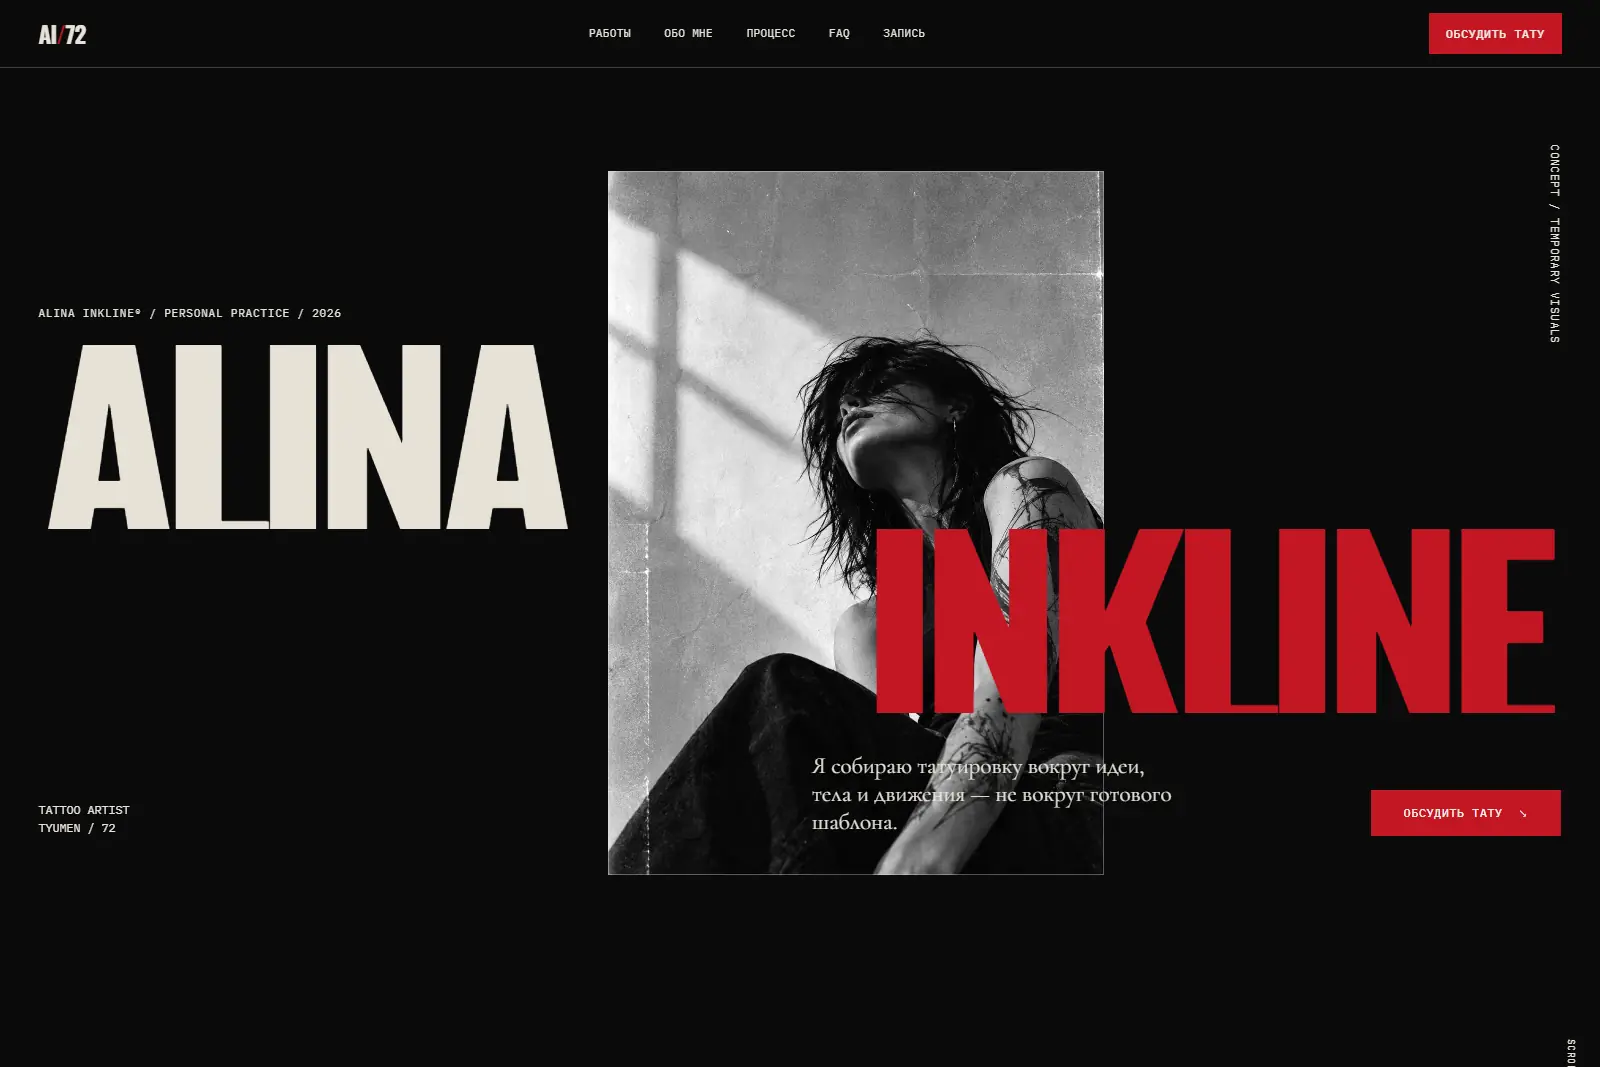
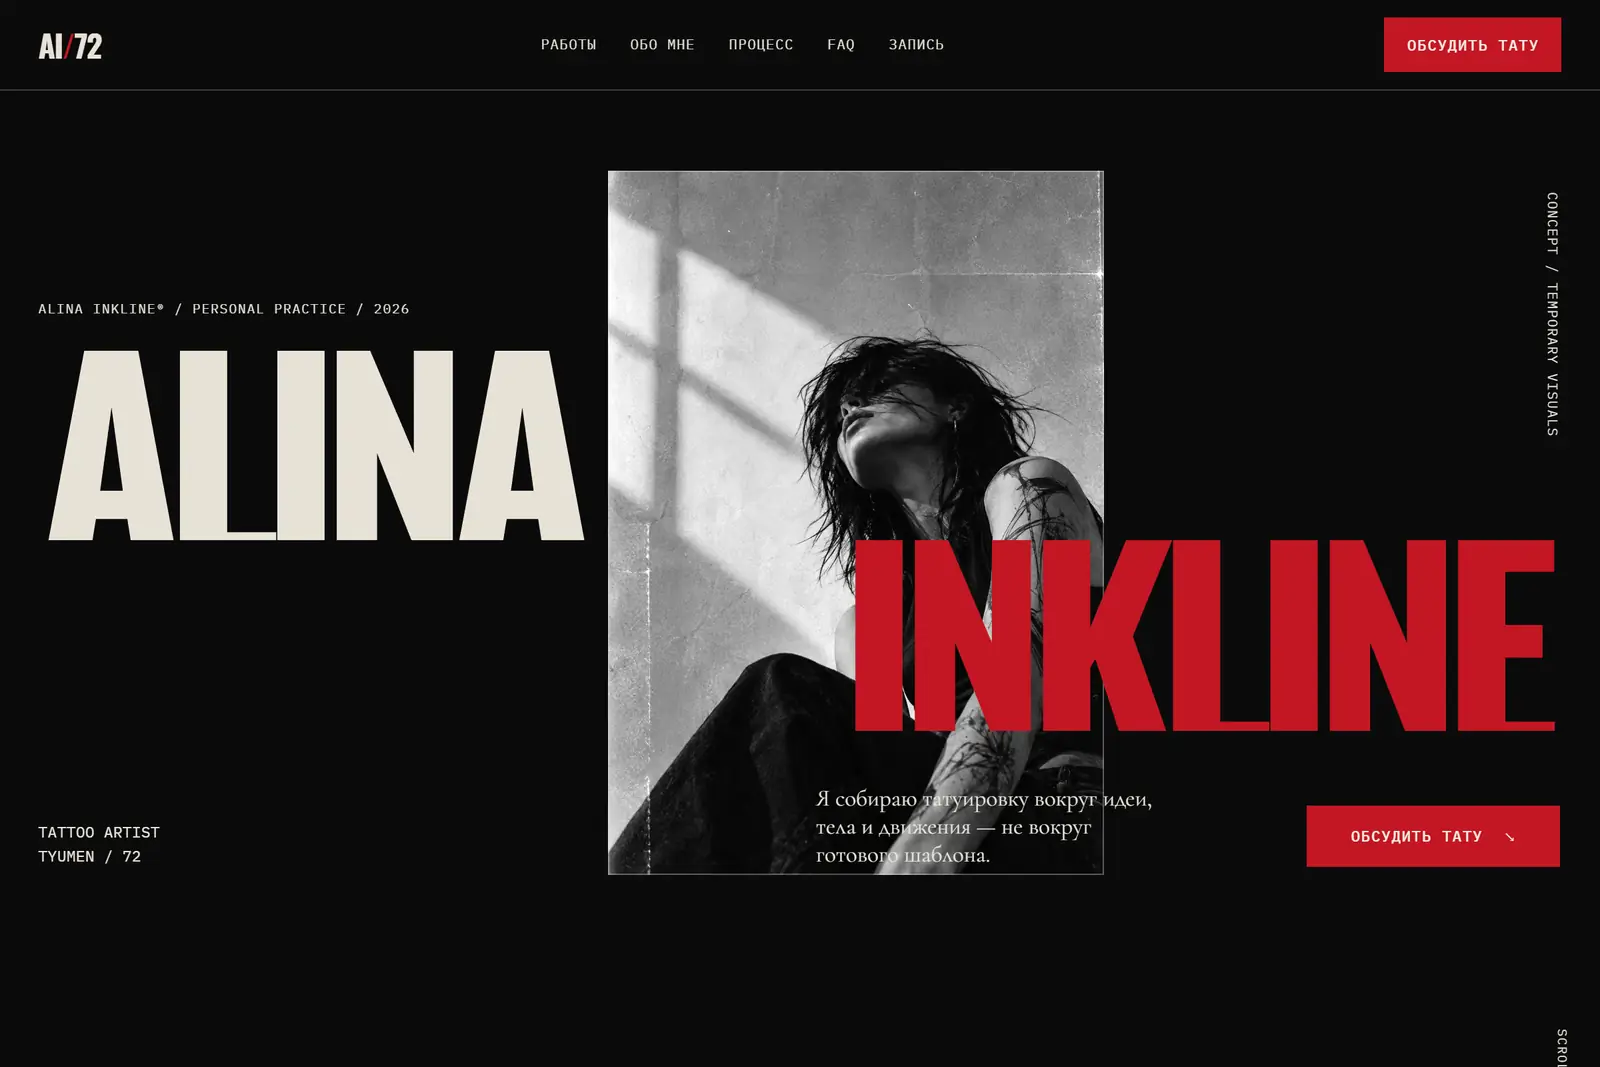
Refresh and reframe all portfolio case previews

diff --git a/index.html b/index.html
@@ -25,8 +25,8 @@
 
 <link rel="preload" as="font" type="font/woff2" href="assets/fonts/oranienbaum-400-cyrillic.woff2" crossorigin>
 <link rel="preload" as="font" type="font/woff2" href="assets/fonts/spectral-400-cyrillic.woff2" crossorigin>
-<link rel="preload" as="image" href="assets/img/case-perfecto-1200.webp" fetchpriority="high"
-      imagesrcset="assets/img/case-perfecto-600.webp 600w, assets/img/case-perfecto-900.webp 900w, assets/img/case-perfecto-1200.webp 1200w, assets/img/case-perfecto-1600.webp 1600w"
+<link rel="preload" as="image" href="assets/img/case-perfecto-1200.webp?v=3" fetchpriority="high"
+      imagesrcset="assets/img/case-perfecto-600.webp?v=3 600w, assets/img/case-perfecto-900.webp?v=3 900w, assets/img/case-perfecto-1200.webp?v=3 1200w, assets/img/case-perfecto-1600.webp?v=3 1600w"
       imagesizes="(max-width:660px) calc(100vw - 44px), (max-width:1100px) 88vw, (max-width:1324px) 45vw, 575px">
 <script>
 /* Стартовые состояния ограничены таймером, который не ждёт загрузки ресурсов.
@@ -39,7 +39,7 @@
  },1200);
 })(document);
 </script>
-<link rel="stylesheet" href="assets/css/style.css">
+<link rel="stylesheet" href="assets/css/style.css?v=3">
 
 <script type="application/ld+json">
 {
@@ -175,10 +175,10 @@
         </div>
         <figure class="case__shot" data-rv="img">
           <a href="https://skysx67.github.io/perfecto-mebel/" target="_blank" rel="noopener">
-            <img src="assets/img/case-perfecto-1200.webp"
-                 srcset="assets/img/case-perfecto-600.webp 600w, assets/img/case-perfecto-900.webp 900w, assets/img/case-perfecto-1200.webp 1200w, assets/img/case-perfecto-1600.webp 1600w"
+            <img src="assets/img/case-perfecto-1200.webp?v=3"
+                 srcset="assets/img/case-perfecto-600.webp?v=3 600w, assets/img/case-perfecto-900.webp?v=3 900w, assets/img/case-perfecto-1200.webp?v=3 1200w, assets/img/case-perfecto-1600.webp?v=3 1600w"
                  sizes="(max-width:660px) calc(100vw - 44px), (max-width:1100px) 88vw, (max-width:1324px) 45vw, 575px"
-                 alt="Обновлённый первый экран сайта мебельной компании Перфекто: кухня в интерьере и заголовок «Мебель на заказ по вашим размерам»" width="1200" height="800" fetchpriority="high">
+                 alt="Первый экран сайта мебельной компании Перфекто: кухня в интерьере и заголовок «Мебель на заказ по вашим размерам»" width="1200" height="720" fetchpriority="high">
           </a>
           <figcaption>skysx67.github.io/perfecto-mebel</figcaption>
         </figure>
@@ -200,8 +200,8 @@
           <p class="case__go"><button class="btn btn--sm" type="button" data-view-open>Пролистать здесь</button><a class="ulink" href="https://skysx67.github.io/alina-inkline/" target="_blank" rel="noopener">Открыть в новой вкладке</a></p>
         </div>
         <figure class="case__shot" data-rv="img">
-          <a href="https://skysx67.github.io/alina-inkline/" target="_blank" rel="noopener"><img src="assets/img/case-alina-inkline-1200.webp"
-                 srcset="assets/img/case-alina-inkline-600.webp 600w, assets/img/case-alina-inkline-900.webp 900w, assets/img/case-alina-inkline-1200.webp 1200w, assets/img/case-alina-inkline-1600.webp 1600w"
+          <a href="https://skysx67.github.io/alina-inkline/" target="_blank" rel="noopener"><img src="assets/img/case-alina-inkline-1200.webp?v=3"
+                 srcset="assets/img/case-alina-inkline-600.webp?v=3 600w, assets/img/case-alina-inkline-900.webp?v=3 900w, assets/img/case-alina-inkline-1200.webp?v=3 1200w, assets/img/case-alina-inkline-1600.webp?v=3 1600w"
                  sizes="(max-width:660px) calc(100vw - 44px), (max-width:1100px) 88vw, (max-width:1324px) 45vw, 575px"
                  alt="Первый экран концепта сайта тату-мастера Alina Inkline с крупной красной типографикой и чёрно-белым портретом" width="1200" height="800" loading="lazy"></a>
           <figcaption>skysx67.github.io/alina-inkline</figcaption>
@@ -223,10 +223,10 @@
           <p class="case__go"><button class="btn btn--sm" type="button" data-view-open>Пролистать здесь</button><a class="ulink" href="demo/remont/" target="_blank" rel="noopener">Открыть в новой вкладке</a></p>
         </div>
         <figure class="case__shot" data-rv="img">
-          <a href="demo/remont/"><img src="assets/img/case-remont-1200.webp"
-                 srcset="assets/img/case-remont-600.webp 600w, assets/img/case-remont-900.webp 900w, assets/img/case-remont-1200.webp 1200w, assets/img/case-remont-1600.webp 1600w"
+          <a href="demo/remont/"><img src="assets/img/case-remont-1200.webp?v=3"
+                 srcset="assets/img/case-remont-600.webp?v=3 600w, assets/img/case-remont-900.webp?v=3 900w, assets/img/case-remont-1200.webp?v=3 1200w, assets/img/case-remont-1600.webp?v=3 1600w"
                  sizes="(max-width:660px) calc(100vw - 44px), (max-width:1100px) 88vw, (max-width:1324px) 45vw, 575px"
-                 alt="Первый экран демо-лендинга ремонта квартир «Ровно» с калькулятором сметы" width="1200" height="800" loading="lazy"></a>
+                 alt="Первый экран демо-лендинга ремонта квартир «Ровно» с кнопкой расчёта стоимости" width="1200" height="720" loading="lazy"></a>
           <figcaption>demo/remont</figcaption>
         </figure>
       </li>
@@ -246,10 +246,10 @@
           <p class="case__go"><button class="btn btn--sm" type="button" data-view-open>Пролистать здесь</button><a class="ulink" href="demo/potolki/" target="_blank" rel="noopener">Открыть в новой вкладке</a></p>
         </div>
         <figure class="case__shot" data-rv="img">
-          <a href="demo/potolki/"><img src="assets/img/case-potolki-1200.webp?v=2"
-                 srcset="assets/img/case-potolki-600.webp?v=2 600w, assets/img/case-potolki-900.webp?v=2 900w, assets/img/case-potolki-1200.webp?v=2 1200w, assets/img/case-potolki-1600.webp?v=2 1600w"
+          <a href="demo/potolki/"><img src="assets/img/case-potolki-1200.webp?v=3"
+                 srcset="assets/img/case-potolki-600.webp?v=3 600w, assets/img/case-potolki-900.webp?v=3 900w, assets/img/case-potolki-1200.webp?v=3 1200w, assets/img/case-potolki-1600.webp?v=3 1600w"
                  sizes="(max-width:660px) calc(100vw - 44px), (max-width:1100px) 88vw, (max-width:1324px) 45vw, 575px"
-                 alt="Первый экран демо-лендинга «Потолок72» с визуализацией потолка, ценой и кнопкой замера" width="1200" height="800" loading="lazy"></a>
+                 alt="Первый экран демо-лендинга «Потолок72» с визуализацией потолка, ценой и кнопкой замера" width="1200" height="720" loading="lazy"></a>
           <figcaption>demo/potolki</figcaption>
         </figure>
       </li>
@@ -269,10 +269,10 @@
           <p class="case__go"><button class="btn btn--sm" type="button" data-view-open>Пролистать здесь</button><a class="ulink" href="demo/design/" target="_blank" rel="noopener">Открыть в новой вкладке</a></p>
         </div>
         <figure class="case__shot" data-rv="img">
-          <a href="demo/design/"><img src="assets/img/case-design-1200.webp"
-                 srcset="assets/img/case-design-600.webp 600w, assets/img/case-design-900.webp 900w, assets/img/case-design-1200.webp 1200w, assets/img/case-design-1600.webp 1600w"
+          <a href="demo/design/"><img src="assets/img/case-design-1200.webp?v=3"
+                 srcset="assets/img/case-design-600.webp?v=3 600w, assets/img/case-design-900.webp?v=3 900w, assets/img/case-design-1200.webp?v=3 1200w, assets/img/case-design-1600.webp?v=3 1600w"
                  sizes="(max-width:660px) calc(100vw - 44px), (max-width:1100px) 88vw, (max-width:1324px) 45vw, 575px"
-                 alt="Первый экран демо-лендинга студии дизайна интерьера «Северова»" width="1200" height="800" loading="lazy"></a>
+                 alt="Первый экран демо-лендинга студии дизайна интерьера «Северова»" width="1200" height="720" loading="lazy"></a>
           <figcaption>demo/design</figcaption>
         </figure>
       </li>

diff --git a/assets/css/style.css b/assets/css/style.css
@@ -156,7 +156,7 @@ h3{font-family:var(--serif);font-weight:600;font-size:clamp(19px,1.8vw,23px);lin
 .case__go{margin-top:26px}
 .case__shot{margin:0;min-width:0}
 .case__shot a{display:block;text-decoration:none}
-.case__shot img{width:100%;aspect-ratio:3/2;object-fit:cover;object-position:50% 0;border:1px solid var(--rule);filter:saturate(.96);transition:filter .3s,transform .3s}
+.case__shot img{width:100%;height:auto;border:1px solid var(--rule);filter:saturate(.96);transition:filter .3s,transform .3s}
 .case__shot a:hover img{filter:saturate(1.06);transform:translateY(-3px)}
 .case__shot figcaption{margin-top:10px;font:400 11px/1 var(--mono);letter-spacing:.08em;color:var(--tx-mut)}
 
